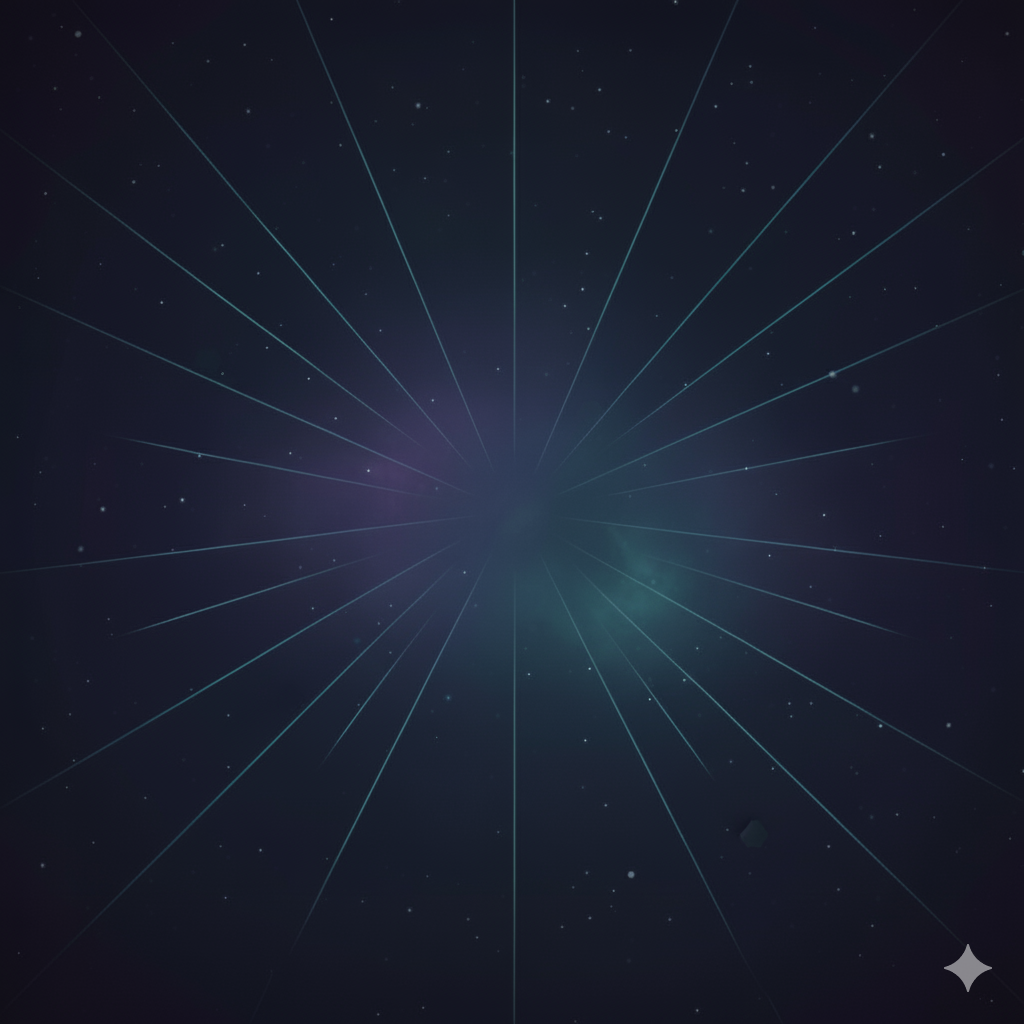
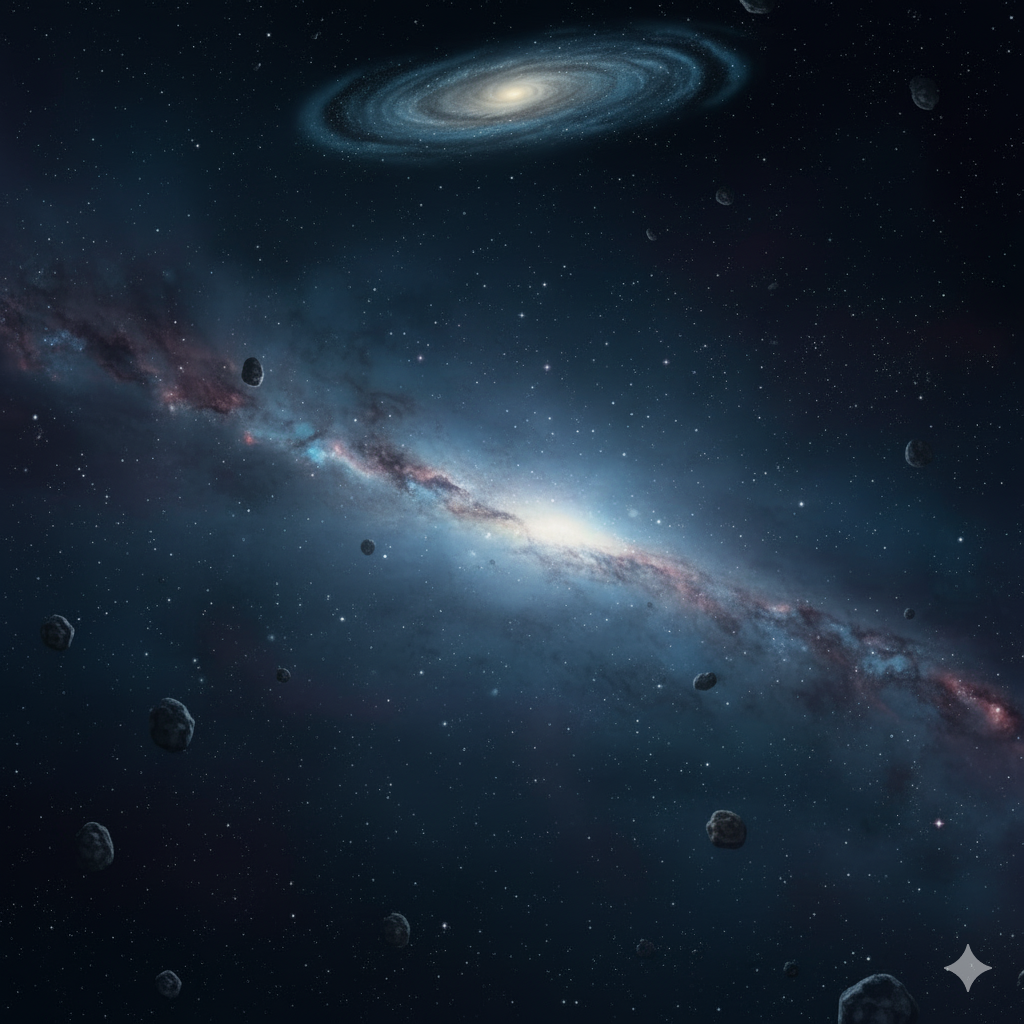
Finish Level and Create Level

diff --git a/src/main/java/com/arkanoid/utils/LevelStorage.java b/src/main/java/com/arkanoid/utils/LevelStorage.java
@@ -1,0 +1,103 @@
+package com.arkanoid.utils; // Đặt vào package .utils (hoặc package bạn muốn)
+
+import java.nio.file.*;
+
+public class LevelStorage {
+
+    private static final String SAVE_FILE = "arkanoid_levels.txt";
+    private static String SAVE_PATH = "src/main/resources/com/arkanoid/data/arkanoid_levels.txt";
+    private static int unlockedLevels = 1;
+    private static boolean loaded = false;
+
+
+    private static void load() {
+        if (loaded) return;
+
+        try {
+            Path path = Paths.get(SAVE_PATH);
+            if (Files.exists(path)) {
+                String content = Files.readString(path);
+                String[] lines = content.split("\n");
+                for (String line : lines) {
+                    line = line.trim();
+
+                    if (line.startsWith("unlockedLevels=")) {
+                        String valueStr = line.substring(15).trim();
+                        unlockedLevels = Integer.parseInt(valueStr);
+                        break;
+                    }
+                }
+            } else {
+                unlockedLevels = 1;
+                save();
+            }
+
+            loaded = true;
+        } catch (Exception e) {
+            System.err.println("Error loading unlocked levels: " + e.getMessage());
+            unlockedLevels = 1;
+        }
+    }
+
+
+    private static void save() {
+        try {
+            Path path = Paths.get(SAVE_PATH);
+            Path dir = path.getParent();
+
+            if (dir != null && !Files.exists(dir)) {
+                Files.createDirectories(dir);
+            }
+
+            StringBuilder content = new StringBuilder();
+            content.append("unlockedLevels=").append(unlockedLevels); // <-- Đổi "coins="
+
+            Files.writeString(path, content.toString());
+
+            System.out.println("Saved unlocked levels: " + unlockedLevels); // <-- Log message
+
+        } catch (Exception e) {
+            e.printStackTrace();
+        }
+    }
+
+    public static int loadUnlockedLevels() {
+        if (!loaded) {
+            load();
+        }
+        return unlockedLevels;
+    }
+
+    public static void saveUnlockedLevels(int levelsToSave) {
+        unlockedLevels = Math.max(1, levelsToSave);
+        save();
+        loaded = true;
+    }
+
+    public static String getSavePath() {
+        return SAVE_PATH;
+    }
+
+    public static boolean saveFileExists() {
+        return Files.exists(Paths.get(SAVE_PATH));
+    }
+
+    public static void deleteSaveFile() {
+        try {
+            Path path = Paths.get(SAVE_PATH);
+            if (Files.exists(path)) {
+                Files.delete(path);
+                unlockedLevels = 1;
+                loaded = false;
+            }
+        } catch (Exception e) {
+            System.err.println("Error deleting progress save file: " + e.getMessage());
+        }
+    }
+
+    public static void reset() {
+        unlockedLevels = 1;
+        loaded = true;
+        save();
+    }
+}

diff --git a/src/main/java/com/arkanoid/utils/LevelManager.java b/src/main/java/com/arkanoid/utils/LevelManager.java
@@ -4,6 +4,7 @@ import com.arkanoid.CONSTANT;
 import com.arkanoid.model.brick.*;
 import java.util.ArrayList;
 import java.util.List;
+import com.arkanoid.utils.LevelStorage;
 
 public class LevelManager {
     private static LevelManager instance;
@@ -12,9 +13,9 @@ public class LevelManager {
     private int unlockedLevels;
     public LevelManager() {
         levels = new ArrayList<>();
-        initializeLevels();
         currentLevel = 1;
-        unlockedLevels = 1;
+        unlockedLevels = LevelStorage.loadUnlockedLevels();
+        initializeLevels();
     }
 
     public static LevelManager getInstance() {
@@ -29,7 +30,7 @@ public class LevelManager {
             LevelInfo level = new LevelInfo();
             level.setId(i);
             level.setName("Level " + i);
-            level.setUnlocked(i == 1);
+            level.setUnlocked(i <= unlockedLevels);
 
             levels.add(level);
         }
@@ -67,6 +68,7 @@ public class LevelManager {
             }
             if (levelId > unlockedLevels) {
                 unlockedLevels = levelId;
+                LevelStorage.saveUnlockedLevels(this.unlockedLevels);
             }
         }
     }

diff --git a/src/main/java/com/arkanoid/utils/LoadLevelManager.java b/src/main/java/com/arkanoid/utils/LoadLevelManager.java
@@ -91,9 +91,10 @@ public class LoadLevelManager {
         gameModel.setLives(3);
         gameModel.getBricks().clear();
         gameModel.getExtraBalls().clear();
+        gameModel.getPowerUpManager().clear();
         gameModel.setLevelCompleteDelay(0);
         gameModel.getEffects().clear();
-
+        gameModel.getCoinManager().clear();
         Paddle newPaddle = new Paddle(PowerUpPaddleType.Normal);
         newPaddle.resetPosition();
         gameModel.setPaddle(newPaddle);
@@ -118,7 +119,7 @@ public class LoadLevelManager {
             gameModel.setScore(currentScore);
             gameModel.setLives(currentLives);
         } else {
-            gameModel.setGameState(GameState.GameOver);
+            gameModel.setGameState(GameState.Win);
             System.out.println("Game Completed! All levels finished!");
         }
     }

diff --git a/src/main/java/com/arkanoid/model/brick/MoveBrick.java b/src/main/java/com/arkanoid/model/brick/MoveBrick.java
@@ -2,6 +2,7 @@ package com.arkanoid.model.brick;
 
 import com.arkanoid.CONSTANT;
 import com.arkanoid.model.GameModel;
+import com.arkanoid.utils.LevelManager;
 
 import java.util.ArrayList;
 
@@ -24,7 +25,10 @@ public class MoveBrick extends Brick {
     }
     public void update(double deltaTime) {
         if (!isVisible()) return;
-
+        GameModel gm = GameModel.getInstance();
+        if(gm.isBrickFalling()){
+            return;
+        }
         double deltaX = moveSpeed * direction * deltaTime;
         double nextX = getX() + deltaX;
         boolean atRightLimit = nextX >= initialX + moveRange;

diff --git a/src/main/java/com/arkanoid/view/LevelSelectionView.java b/src/main/java/com/arkanoid/view/LevelSelectionView.java
@@ -163,9 +163,8 @@ public class LevelSelectionView extends StackPane {
     }
 
     private void createBackButton() {
-        backButton = createImageButton("backtomenu2", "backtomenu1");
+        backButton = createImageButton("BtnExitNormal", "BtnExitHover");
         backButton.setOnAction(e -> System.out.println("Return to main menu!"));
-
         getChildren().add(backButton);
         StackPane.setAlignment(backButton, Pos.BOTTOM_LEFT);
         StackPane.setMargin(backButton, new Insets(0, 0, 20, 20));

diff --git a/src/main/java/com/arkanoid/model/GameModel.java b/src/main/java/com/arkanoid/model/GameModel.java
@@ -143,6 +143,7 @@ public class GameModel {
             this.ball.resetPosition(paddle);
             this.extraBalls.clear();
             this.effects.clear();
+            this.getPowerUpManager().getPowerUps().clear();
             LevelManager.getInstance().completeLevel(LevelManager.getInstance().getCurrentLevel());
         }
     }
